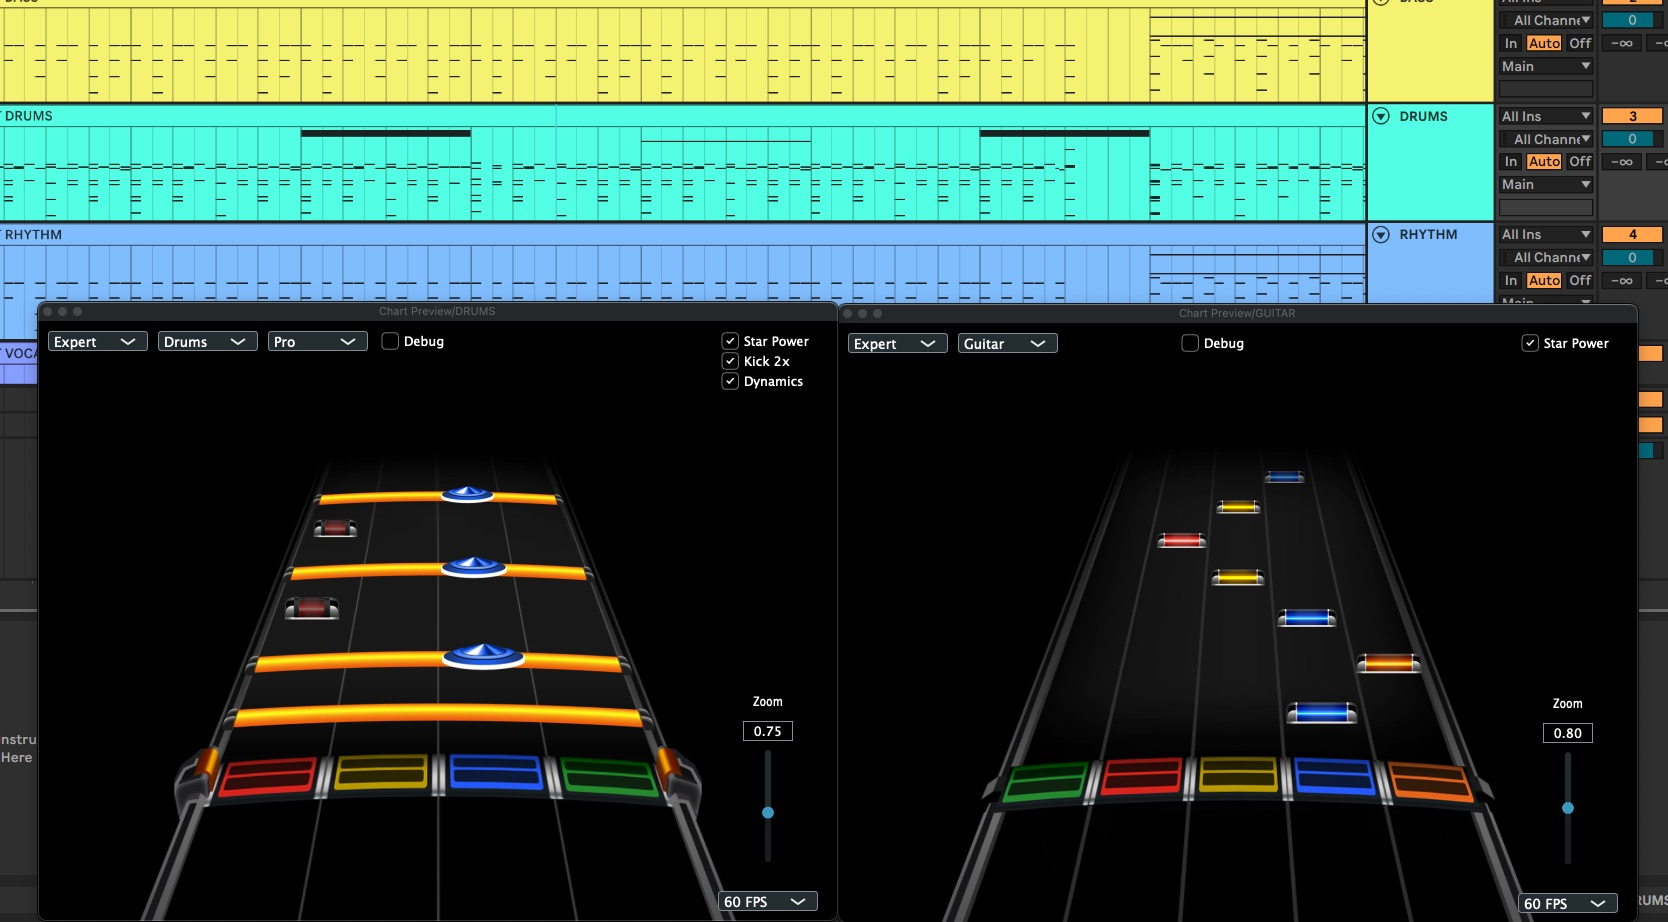
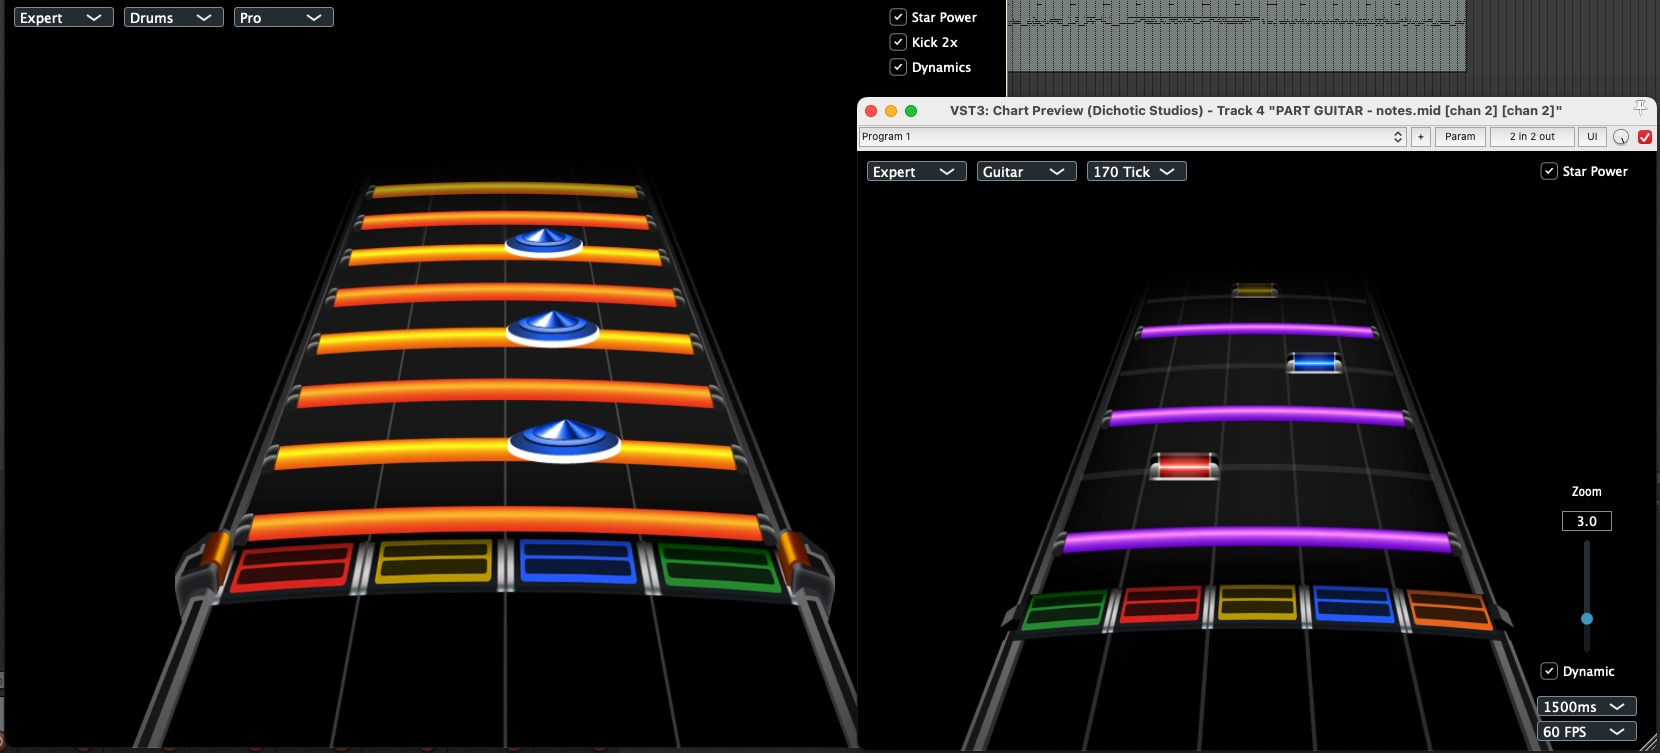
updates to docs and preview image to reflect newer state of the plugin

diff --git a/docs/TODO.md b/docs/TODO.md
@@ -1,7 +1,7 @@
 # Chart Preview TODO & Roadmap
 # Consolidated master list - architectural + beta tester feedback
 
-Current Version: **v0.7+ (beta testing phase)**  
+Current Version: **v0.8.5 (beta testing phase)**  
 Primary Beta Tester: **Invontor** (main contributor/QA)
 
 ## 🚨 CRITICAL BUGS (P0) - Beta Blockers
@@ -40,8 +40,9 @@ Primary Beta Tester: **Invontor** (main contributor/QA)
 ## 🔥 HIGH PRIORITY (P1) - Core Features & UX
 
 ### Feature Completion
-- ✅ ~~Guitar sustains (render + hit windows)~~ - **COMPLETED in v0.7**
-- ✅ ~~Drums lanes + BRE~~ - **COMPLETED in v0.7** (lanes implemented, BRE pending)
+- ✅ ~~Guitar sustains (render + hit windows)~~ - **COMPLETED in v0.8.5**
+- ✅ ~~Drums lanes~~ - **COMPLETED in v0.8.5** (lanes implemented)
+- ❌ **BRE**
 - ❌ **Extended memory** so notes remain visible when transport stops
 - ✅ ~~Latency compensation and user calibration control~~ - **COMPLETED**
 - ✅ ~~Finalize grid visual polish~~ - **COMPLETED**
@@ -54,8 +55,7 @@ Primary Beta Tester: **Invontor** (main contributor/QA)
 - ❌ **Fix window resizing not preserved** across project loads/Reaper restarts
 
 ### Missing Core Features
-- ❌ **Re-enable lanes rendering** (currently disabled due to visual issues)
-      - Need to fix rounded corner rendering problems from recent work
+- ✅ ~~Re-enable lanes rendering~~ - **COMPLETED in v0.8.5** (fixed rounded corner rendering with offscreen compositing)
 - ❌ **Add hit animation/effects** (light flash) with toggle option
       - Users report jarring lack of hit feedback compared to RBN preview - HIGH DEMAND
 - ❌ **Add time offset setting/slider** for manual audio sync compensation
@@ -95,7 +95,7 @@ Primary Beta Tester: **Invontor** (main contributor/QA)
 
 ### HOPO & Advanced Features  
 - ❌ **Heuristic HOPOs, open HOPOs** *(partially implemented - auto-HOPO system exists)*
-- ❌ **Trill/tremolo sections** *(lanes system completed, needs re-enabling)*
+- ✅ ~~Trill/tremolo sections~~ - **COMPLETED in v0.8.5** (lanes system with rounded rendering)
 - ❌ **Face off/Battle mode sections support**
 
 ### Advanced Workflow
@@ -111,12 +111,15 @@ Primary Beta Tester: **Invontor** (main contributor/QA)
 - ❌ **Preview different instruments simultaneously**  
 - ❌ **Custom MIDI channel editor** with audio track background
 
-## ✅ RECENT COMPLETIONS (v0.7)
+## ✅ RECENT COMPLETIONS (v0.8.5)
 - ✅ Convert all note timing/state to PPQ and render from PPQ
 - ✅ Gridlines: PPQ-based beats/measures with subdivisions
 - ✅ Latency compensation and user calibration control with multi-buffer smoothing
 - ✅ Grid visual polish (beat/half-beat/measure markers, visibility working)  
 - ✅ CI/release automation across platforms (GitHub Actions with Windows/macOS/Linux builds)
+- ✅ **Lanes System Overhaul** - Complete rewrite with perspective-aware coordinates, rounded cap rendering, and offscreen compositing
+- ✅ **Sustain Visual Polish** - Added rounded corners, proportional perspective scaling, and pixel-perfect rendering
+- ✅ **Coordinate System Refactor** - Dedicated lane coordinate functions independent of gem positioning for consistent spacing
 - ✅ Sustain note implementation
 - ✅ Resizable VST with fixed aspect ratio  
 - ✅ Chord detection tolerance (10-tick grouping)

diff --git a/docs/CLAUDE.md b/docs/CLAUDE.md
@@ -112,13 +112,13 @@ All timing uses **PPQ (Pulses Per Quarter)** for tempo-independent calculations:
 - Ghost notes and accents (dynamics)
 - 2x kick support
 - Cymbal vs tom differentiation
-- Lanes (in development)
+- Lanes (completed - tremolo/cymbal swells)
 
-**Guitar (Partially Implemented)**
+**Guitar (Feature Complete)**
 - Open notes and tap notes supported
-- HOPOs (hammer-ons/pull-offs) 
-- Sustain notes (partially implemented)
-- Lanes (in development)
+- HOPOs (hammer-ons/pull-offs) with configurable timing
+- Sustain notes with rounded cap rendering
+- Lanes (completed - trill/tremolo sections)
 
 ## Important Implementation Details
 
@@ -152,7 +152,9 @@ Includes Windows-specific typedef in `Utils.h`:
 - 60 FPS rendering by default (configurable: 15/30/60 FPS)
 - Latency compensation with multi-buffer smoothing
 - Chart zoom affects visible note count (400ms to 1.5s)
-- Draw call batching and culling optimizations in progress
+- Draw call batching with column-based ordering
+- Offscreen compositing for complex sustain/lane rendering
+- Perspective-aware coordinate caching
 
 ## State Management
 
@@ -165,21 +167,22 @@ Plugin state stored in `juce::ValueTree` with properties:
 
 ## Development Status
 
-Current version: **v0.7+ (beta testing phase)**
+Current version: **v0.8.5 (beta testing phase)**
 
 See `docs/TODO.md` for comprehensive priority-ranked backlog based on beta tester feedback.
 
-### Recent Completions (v0.7)
+### Recent Completions (v0.8.5)
 - ✅ PPQ-based timing system conversion
 - ✅ Latency compensation with multi-buffer smoothing
 - ✅ Grid visual polish (beat/half-beat/measure markers)
 - ✅ Cross-platform CI/CD pipeline with artifact verification
 - ✅ Linux build support with full dependency management
 - ✅ Windows artifact optimization (debug symbol removal)
-- ✅ Sustain note implementation
+- ✅ Sustain note implementation with rounded cap rendering
 - ✅ Resizable VST with fixed aspect ratio
 - ✅ Chord detection tolerance (10-tick grouping)
-- ✅ Drum/cymbal lanes (tremolo/trills) implementation
+- ✅ **Lanes System Overhaul** - Complete rewrite with perspective-aware coordinates and offscreen compositing
+- ✅ **Coordinate System Refactor** - Dedicated lane coordinate functions for consistent spacing
 - ✅ HOPO mode configuration system
 
 ### Beta Testing Insights

diff --git a/README.md b/README.md
@@ -9,7 +9,7 @@ Big massive thank you Invontor for the lovely custom art assets.
 
 #### **DISCLAIMER**
 
-Chart Preview is in active development (v0.7+ beta). Drums are fully usable with some quirks, guitar has more bugs but core features work. Sustained notes and lanes are now implemented! See [roadmap](docs/TODO.md) for current status and known issues.
+Chart Preview is in active development (v0.8.5 beta). Both drums and guitar are now feature-complete with full sustain and lane support! Some timing/sync bugs remain. See [roadmap](docs/TODO.md) for current status and known issues.
 
 [Consider supporting the project!](https://www.paypal.com/donate/?business=3P35P46JLEDJA&no_recurring=0&item_name=Support+the+ongoing+development+of+Chart+Preview.&currency_code=USD)
 
@@ -64,7 +64,7 @@ Chart Preview is an open source replacement vst for RBN Preview, built from the 
 - **[📋 Development Roadmap](docs/TODO.md)** - Current tasks, known issues, and future plans
 - **[🔧 Build Instructions](docs/BUILDING.md)** - How to compile from source
 
-### Recent Features (v0.7)
+### Recent Features (v0.8.5)
 - ✅ **Sustain Notes** - Guitar sustain rendering with accurate timing
 - ✅ **Drum/Cymbal Lanes** - Tremolo rolls and cymbal swells
 - ✅ **Guitar Tremolo** - Trill sections using same lane system  
